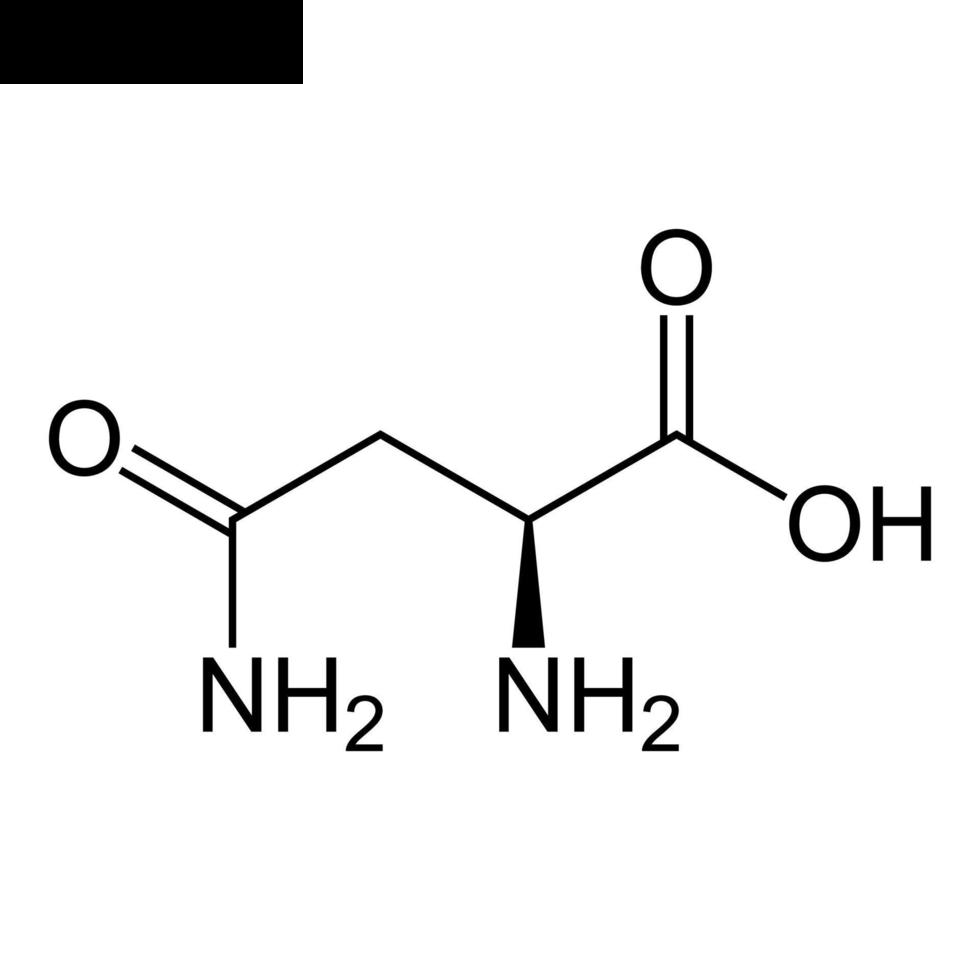
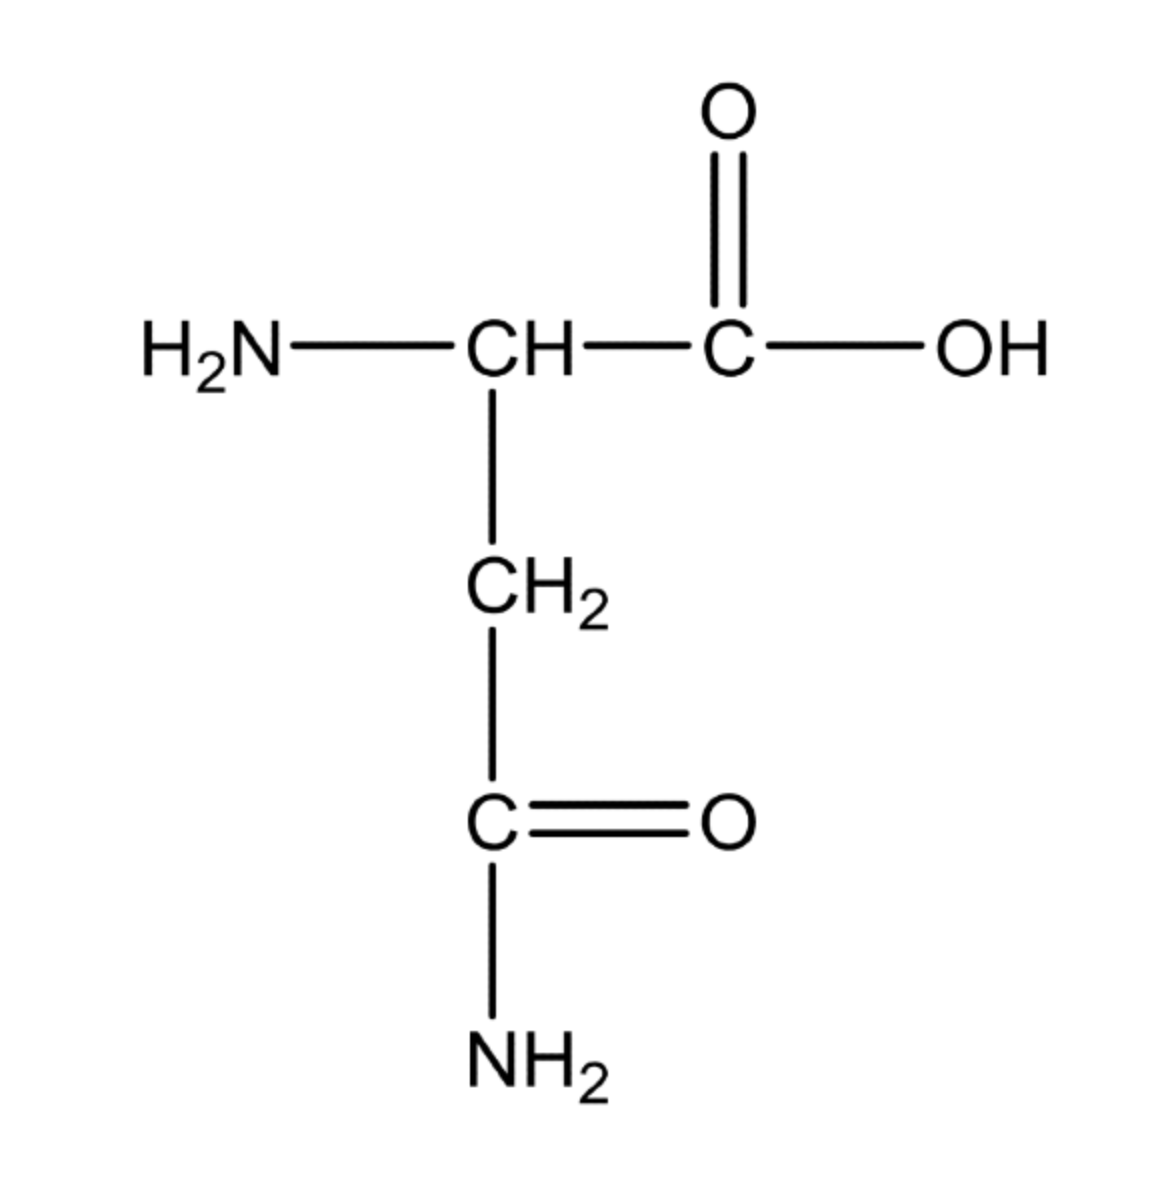
better figures

diff --git a/questions.js b/questions.js
@@ -1,7 +1,7 @@
 const allQuestions = {
     aminoAcids: {
         numQuestions: 20,
-        images: false,
+        images: true,
         questions: [
             {
                 question: "Which amino acid is this?",
@@ -45,7 +45,7 @@ const allQuestions = {
             },
             {
                 question: "Which amino acid is this?",
-                image: "./images/aminos/histidine.jpg",
+                image: "./images/aminos/histidine.png",
                 correct: "Histidine"
             },
             {
@@ -75,7 +75,7 @@ const allQuestions = {
             },
             {
                 question: "Which amino acid is this?",
-                image: "./images/aminos/serine.jpg",
+                image: "./images/aminos/serine.png",
                 correct: "Serine"
             },
             {
@@ -85,12 +85,12 @@ const allQuestions = {
             },
             {
                 question: "Which amino acid is this?",
-                image: "./images/aminos/tryptophan.jpg",
+                image: "./images/aminos/tryptophan.png",
                 correct: "Tryptophan"
             },
             {
                 question: "Which amino acid is this?",
-                image: "./images/aminos/tyrosine.jpg",
+                image: "./images/aminos/tyrosine.png",
                 correct: "Tyrosine"
             },
             {

diff --git a/question.html b/question.html
@@ -10,7 +10,9 @@
     <div class="quiz-container">
         <div class="question">
             <h2 id="questionText">What is the capital of Denmark?</h2>
-            <img id="questionImage" src="" alt="Denmark flag" class="question-image">
+            <div id="imageContainer">
+                <img id="questionImage" src="" alt="Denmark flag" class="question-image">
+            </div>
         </div>
         <div id="choicesGrid"></div>
     </div>

diff --git a/style.css b/style.css
@@ -135,8 +135,6 @@ p {
 .question-image {
     max-width: 100%;
     height: auto;
-    border-radius: 10px;
-    margin-top: 15px;
 }
 
 .choices-grid {
@@ -163,4 +161,12 @@ p {
 
 .choice-btn:disabled {
     cursor: not-allowed;
+}
+
+#imageContainer {
+    width: 100%;
+    min-height: 120px;
+    max-height: auto;
+    float: left;
+    padding: 5px;
 }
